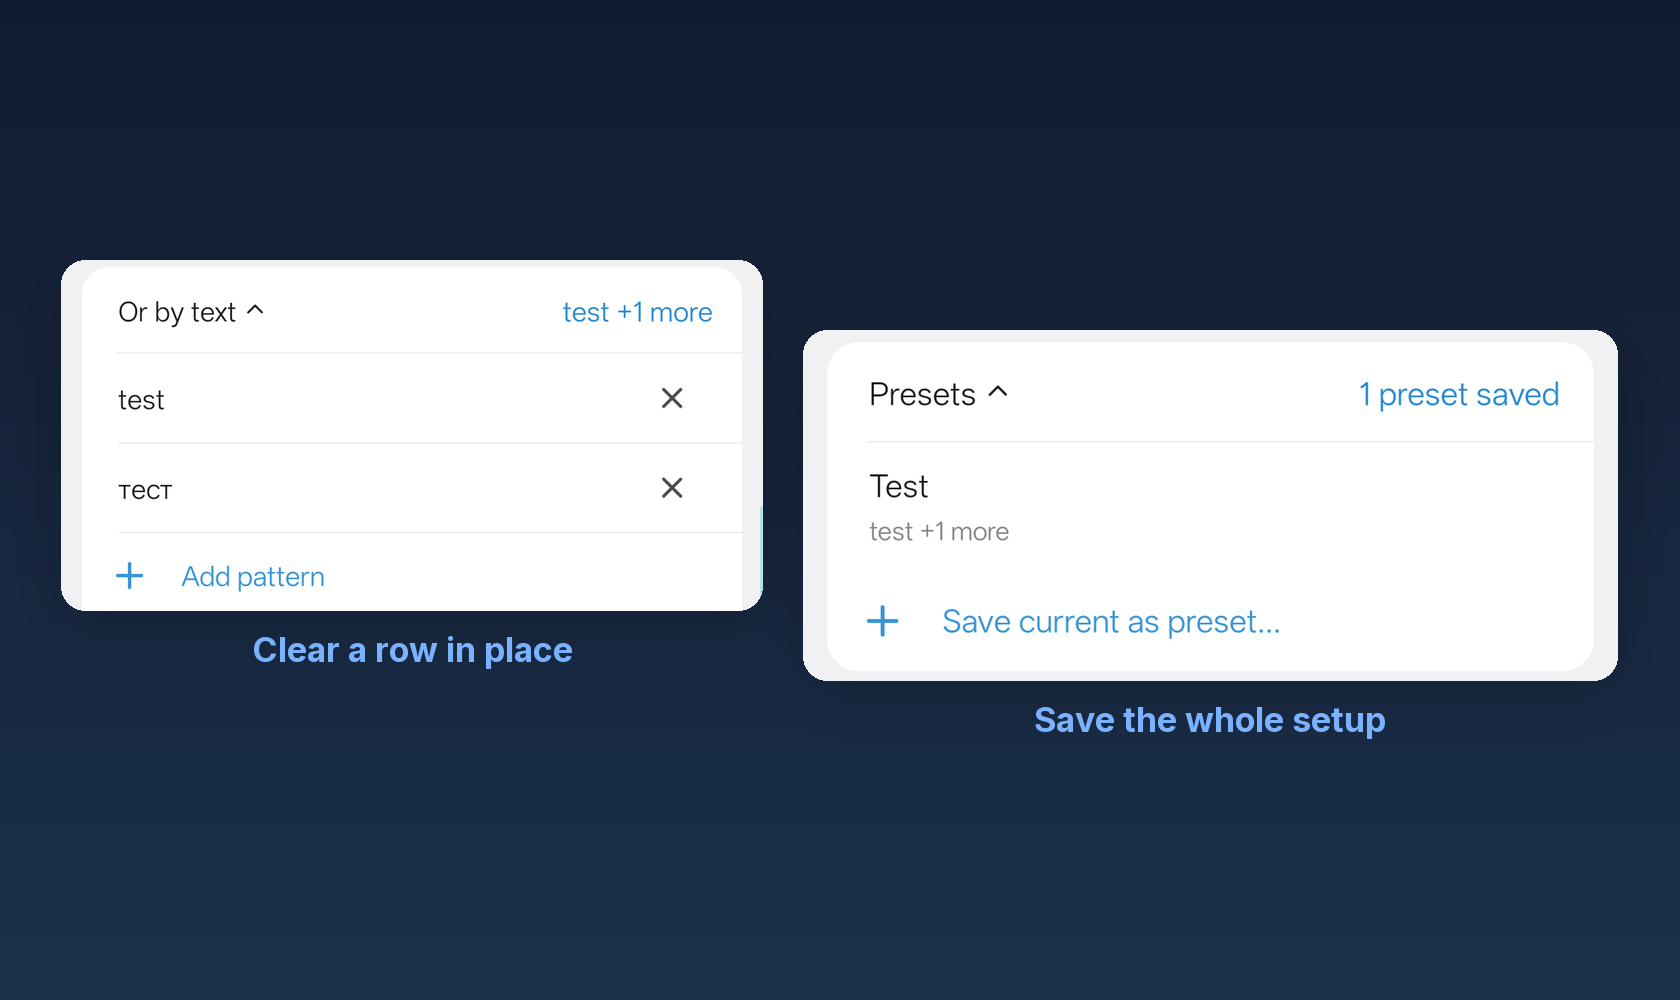
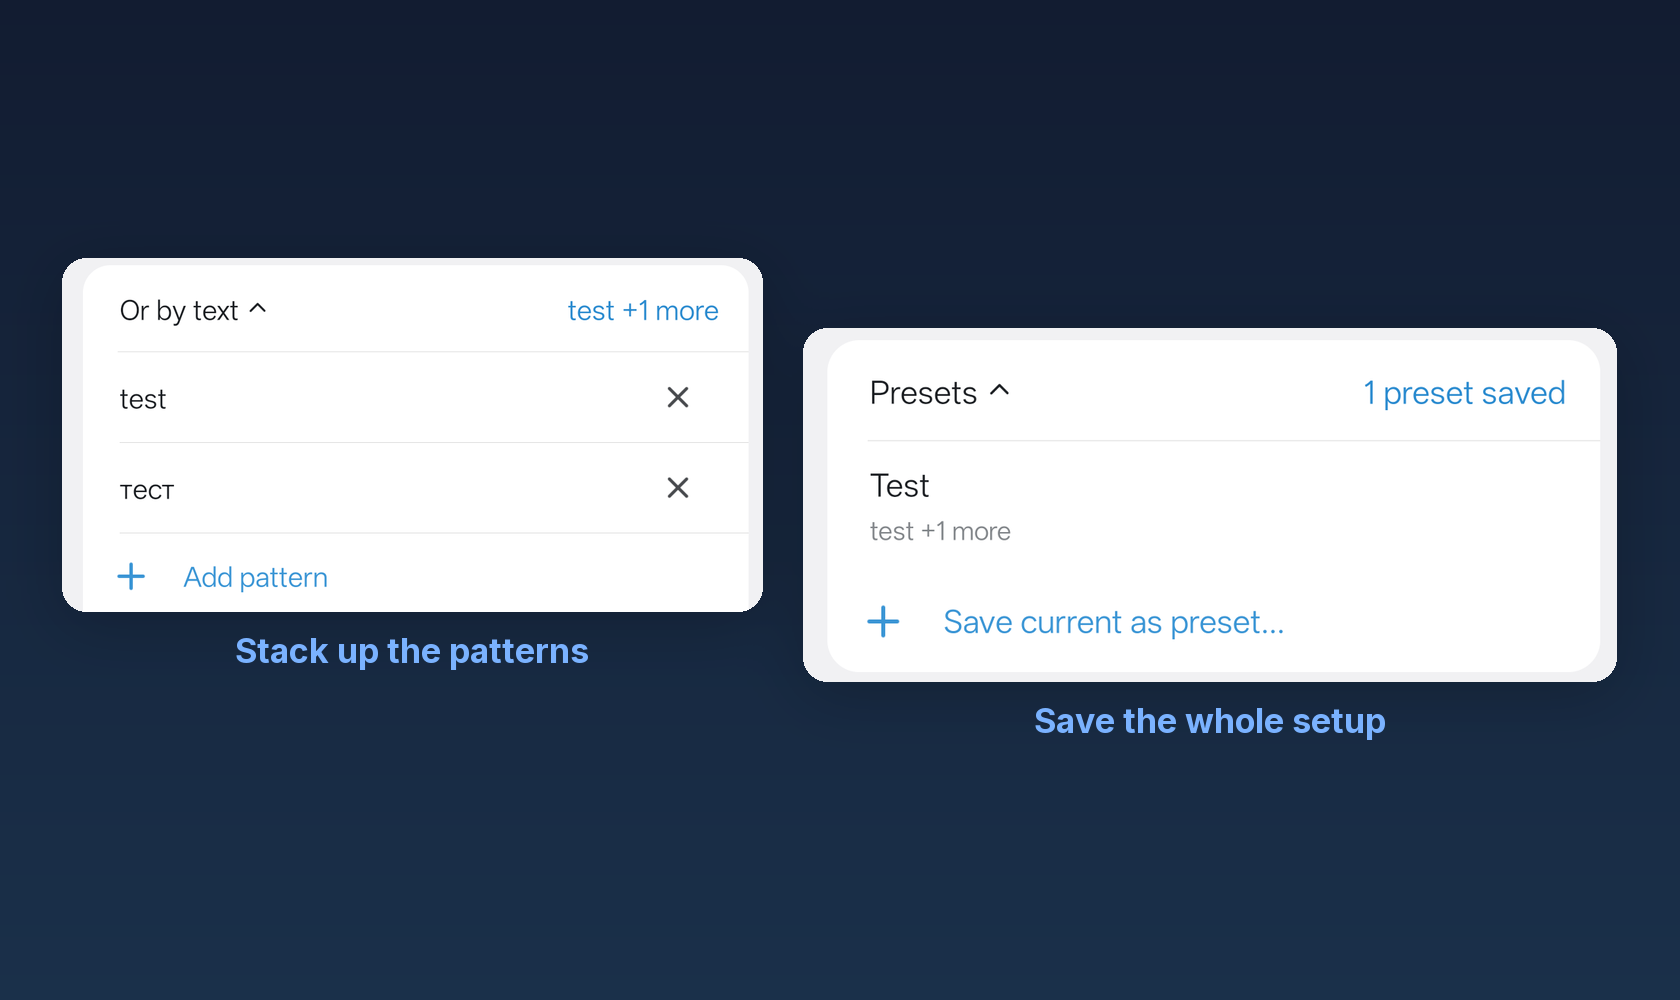
Describe the pattern rows' trailing control as remove, not clear #docs
updateRowAccessibility picks clear-mode only at exactly one row; with the two rows both captures show, the control is poll_remove and announces EventScheduleRemovePattern. The alt text and the wall caption both claimed clear, which is the one thing a screen-reader user cannot check against the image. Also trim the crops' right edge to 1070 to drop a teal sliver of the chat behind the sheet, and repin README.md, which is blob-pinned.

diff --git a/README.md b/README.md
@@ -23,7 +23,7 @@ This README covers the highlights. The full list, with what each one does, is in
 **Scheduled messages:** A schedule is usually just a clock: pick a time, wait for it. Arm a trigger instead and a message sends early the moment a reply matches a message type or a bit of text, keeping its original time as a fallback if it never does. Save a set of conditions you reach for often as a named preset and put it back in two taps. Bulk-reschedule a whole batch at once, spread by an interval, instead of dragging each one by hand.
 
 <p align="center">
-<img src="docs/images/scheduling.png" alt="Three views of Dazegram's scheduled message triggers: the Send early on event card offering By message type and Or by text conditions, with two saved text patterns each carrying its own clear button and a Presets card holding a saved setup below them, the bulk Reschedule sheet with a date/time grid, an interval and delay slider, and a Send on event toggle, and the Message Triggers list showing armed triggers for two test contacts with their message-type and text conditions.">
+<img src="docs/images/scheduling.png" alt="Three views of Dazegram's scheduled message triggers: the Send early on event card offering By message type and Or by text conditions, with two saved text patterns each carrying its own remove control and a Presets card holding a saved setup below them, the bulk Reschedule sheet with a date/time grid, an interval and delay slider, and a Send on event toggle, and the Message Triggers list showing armed triggers for two test contacts with their message-type and text conditions.">
 </p>
 
 **Privacy profiles:** Your auto-lock shouldn't be the same at home as it is on a train. Save named timeouts and switch to one temporarily — for now, for a set stretch of time, or until a given moment. Long-press the Settings tab in the chat list to swap between them.
